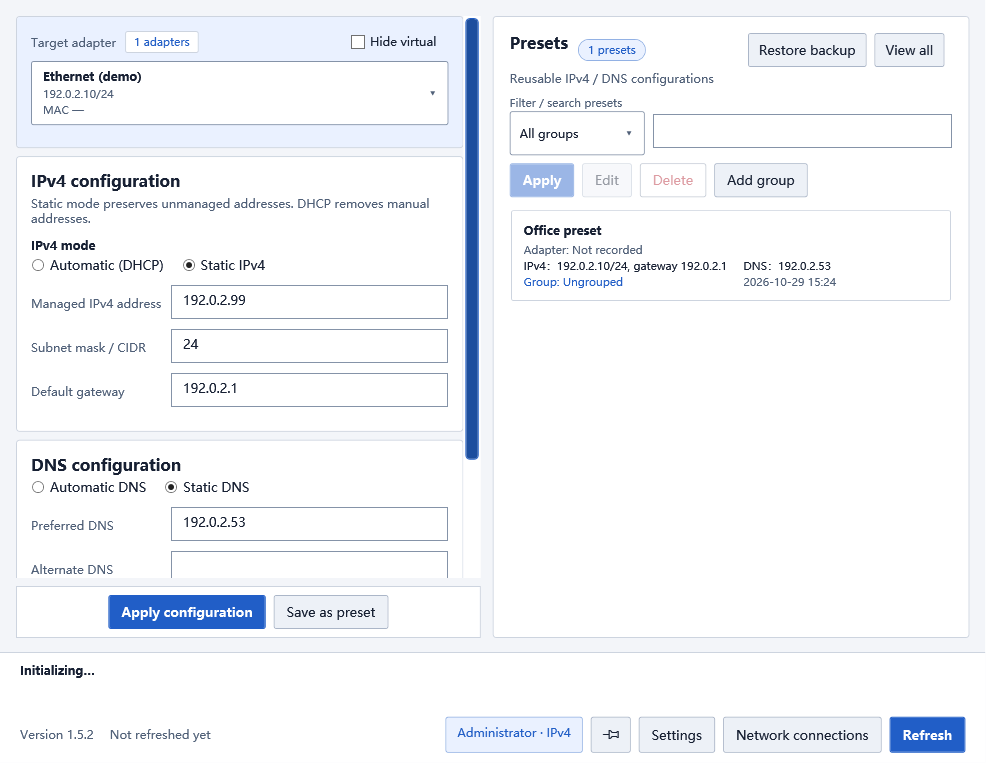
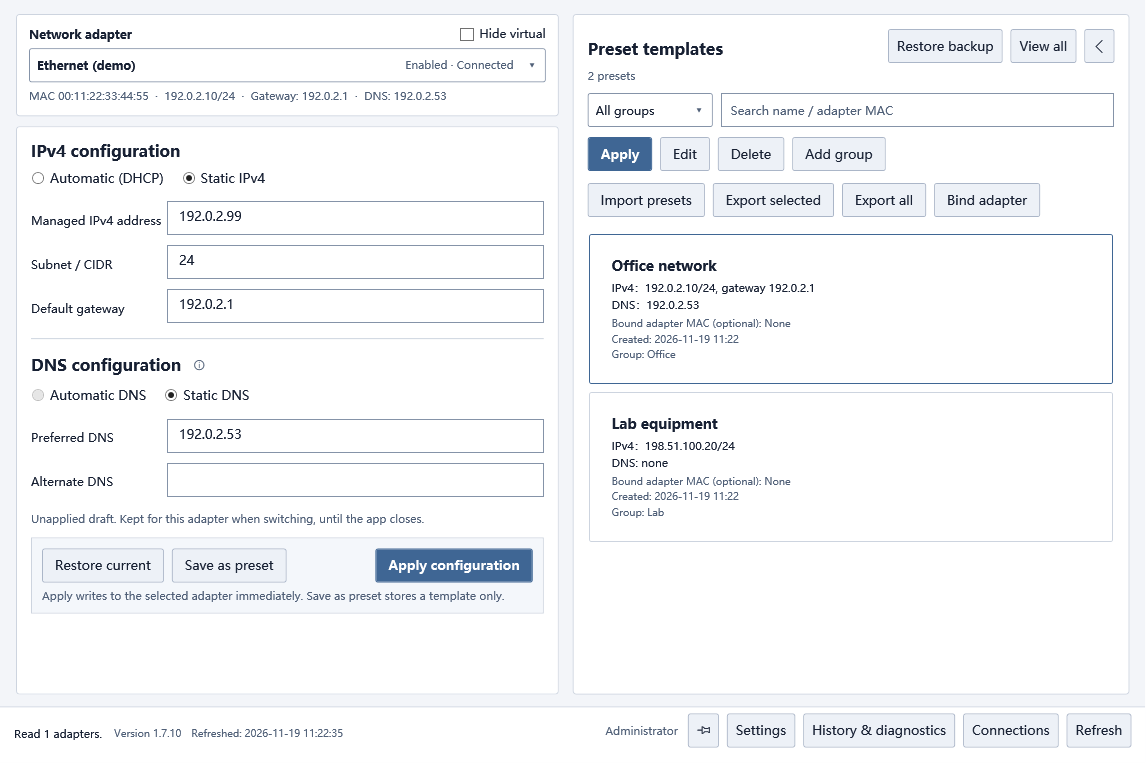
Refresh README layout and v1.7.10 screenshots

diff --git a/README.en.md b/README.en.md
@@ -1,99 +1,115 @@
-# NetAdapterManager
+<p align="center">
+  <img src="Assets/AppIcon.png" alt="NetAdapterManager icon" width="88" height="88">
+</p>
 
-[简体中文](README.md) | English
+<h1 align="center">NetAdapterManager</h1>
 
-An IPv4, DNS and network preset manager for Windows 10/11 x64, built with WPF and .NET 8.
-Current source version: **1.7.10**. Licensed under the [MIT license](LICENSE).
+<p align="center"><strong>Switch IPv4, DNS, and network presets on Windows.</strong></p>
 
-![Main window with synthetic demonstration data](docs/images/main-window-en.png)
+<p align="center">
+  <a href="https://github.com/FlavorFiesta/NetAdapterManager/releases/latest"><strong>Download latest release</strong></a>
+  · <a href="#quick-start">Quick start</a>
+  · <a href="CHANGELOG.md">Changelog</a>
+  · <a href="README.md">简体中文</a>
+</p>
 
-v1.7.10 improves Start menu icon refresh after an upgrade. See the [changelog (Chinese)](CHANGELOG.md). See the [1.5.3 fix notes](docs/RELEASE-1.5.3.md) for saved IPv4 and DNS verification fixes, and the [next-version plan (Chinese)](docs/PLAN-1.6.0.md).
+<p align="center">
+  <a href="https://github.com/FlavorFiesta/NetAdapterManager/actions/workflows/build.yml"><img src="https://github.com/FlavorFiesta/NetAdapterManager/actions/workflows/build.yml/badge.svg?branch=main" alt="Build status"></a>
+  · <strong>Windows 10 / 11 x64</strong> · <a href="LICENSE">MIT</a>
+</p>
+
+<picture>
+  <source media="(prefers-color-scheme: dark)" srcset="docs/images/main-window-en-dark.png">
+  <img src="docs/images/main-window-en.png" alt="Main window with the adapter and IPv4 and DNS settings on the left and the collapsible preset library on the right">
+</picture>
+
+<sub>Captured in v1.7.10 with a synthetic adapter and documentation example addresses.</sub>
+
+## Download
+
+Choose a Windows x64 package from [GitHub Releases](https://github.com/FlavorFiesta/NetAdapterManager/releases/latest). Both packages include the .NET runtime.
+
+| Package | How to use it |
+| --- | --- |
+| **Installer · EXE** | Run the setup wizard. Start menu and desktop shortcuts are selected by default. The default install location is `%LocalAppData%\Programs\NetAdapterManager`. |
+| **Portable · ZIP** | Extract the full archive, run `NetAdapterManager.exe`, and keep the extracted files together. |
+| **Checksums** | `SHA256SUMS.txt` contains the SHA-256 checksums for both packages. |
+
+## Quick start
+
+1. Launch the app and approve the Windows administrator prompt.
+2. Select an adapter and check its name, current IPv4 address, gateway, and DNS.
+3. Edit the settings and select **Apply configuration** to review and confirm the changes. Select **Save as preset** to use the configuration again later.
+
+> Changing an adapter in use may interrupt your connection. Check the target adapter and the preview before applying changes.
 
 ## Features
 
-- View physical, virtual and VPN adapters. Switch between DHCP and static IPv4, with independent automatic or static DNS.
-- Save, edit and apply adapter-specific presets. Organize them into groups, search, move or delete multiple presets.
-- Capture configuration before changes, verify the result and attempt rollback on failure.
-- Enable or disable adapters, keep the window on top and open Windows Network Connections.
-- Switch between Simplified Chinese, Traditional Chinese, English and the system language in Settings.
-- Choose light, dark or system theme, with support for Windows high-contrast colors.
-- Right-aligned toolbar controls, with version and refresh time on the left.
+| Feature | What you can do |
+| --- | --- |
+| **Adapters and addresses** | View physical, virtual, and VPN adapters. Switch DHCP or static IPv4 and set automatic or static DNS. Additional static addresses with DHCP are under Settings → Advanced. |
+| **Preset library** | Save, search, group, bind, import, and export presets. Collapse the library to work in a narrower window. |
+| **Preview and verification** | Compare current and target settings before applying. The app checks the result and attempts to roll back if a change fails. Review outcomes in History & diagnostics. |
+| **Desktop controls** | Use light, dark, or high-contrast themes in English, Simplified Chinese, or Traditional Chinese. Choose whether closing the window exits the app or minimizes it to the system tray. |
 
-Windows requests administrator approval at startup. After approval, the application runs as administrator; cancelling the prompt prevents startup. Changing the active adapter may interrupt connectivity, so check the target adapter before applying changes.
+<details>
+<summary><strong>More screenshots: compact window and configuration preview</strong></summary>
 
-## Download and use
+**Collapsed preset library**
 
-Download a Windows x64 package from [GitHub Releases](https://github.com/FlavorFiesta/NetAdapterManager/releases/latest):
+![Compact main window with the preset library collapsed](docs/images/compact-window-en.png)
 
-- `NetAdapterManager-v<version>-Setup-win-x64.exe`: installation wizard, defaulting to `%LocalAppData%\Programs\NetAdapterManager`.
-- `NetAdapterManager-v<version>-portable-win-x64.zip`: extract the entire archive and run `NetAdapterManager.exe`. Keep all extracted files together.
-- `SHA256SUMS.txt`: SHA-256 checksums for both packages.
+**Review before applying**
 
-Packages include the .NET runtime. The installer preselects a supported language based on the Windows display language, with English as the fallback; you can select another language before installation. The first application launch uses the installer language. Portable installations initially follow the system language. Existing language and theme settings survive upgrades.
+![Configuration preview comparing current and target settings](docs/images/configuration-preview-en.png)
 
-Language changes are temporarily disabled during network operations. Windows controls the appearance and language of native dialogs and raw system error messages.
-
-## What's new in 1.5.2
-
-This release includes all changes developed in the local 1.5.0 and 1.5.1 candidates: languages, themes, installer language selection, toolbar alignment and reliability improvements. It also fixes stale editor values after a successful preset application and makes composed status messages update when switching languages. See the [bilingual release notes](docs/RELEASE-1.5.2.md) and [full changelog in Chinese](CHANGELOG.md).
+</details>
 
 ## Data and privacy
 
-Application data lives beside the executable: `preset-library.json` (presets and groups), `managed-addresses.json` and `settings.json` (language and theme). Errors are logged to `logs/NetAdapterManager.log`. Upgrades preserve data; uninstalling may leave generated data files behind.
+Presets, settings, and logs are stored in the application directory and survive upgrades. Remove adapter names, MAC addresses, IP addresses, and DNS details before sharing diagnostics, logs, or screenshots.
 
-The unified preset library introduced in 1.4.12 imports legacy `presets.json` and `preset-groups.json` from the application directory, or from `%AppData%\NetAdapterManager` if local legacy files are absent. Successful saving creates the unified library and retains the originals. Once the unified library exists, legacy files are no longer imported. Downgrading to 1.4.11 does not expose subsequent unified-library changes; preserve the full application directory first.
+<details>
+<summary>Local files and migration</summary>
 
-Replacing an existing data file keeps its previous contents as `.bak`. Restore Backup restores presets and groups together, validates the backup first and preserves the replaced file as `.corrupt-*`. Corrupt or inaccessible preset data is reported and protected from overwriting. Damaged settings are preserved when a new preference is saved.
+- `preset-library.json` keeps presets and groups, `settings.json` stores preferences, and `managed-addresses.json` records addresses managed by the app. The log is at `logs/NetAdapterManager.log`.
+- Previous data files are kept as `.bak`. **Restore backup** in the preset library restores presets and groups together. The app blocks overwriting a corrupt preset library.
+- Before the unified library is first saved, the app can load legacy `presets.json` and `preset-groups.json` from the application directory or `%AppData%\NetAdapterManager`. Back up the entire application directory before downgrading or replacing files by hand.
 
-Only one instance runs per user. Closing during configuration, verification or recovery waits for the operation to finish; this cannot protect against forced termination or power loss. Adapter enable/disable operations stop waiting after 15 seconds, but Windows may still be working. Further writes are blocked; inspect the system state before restarting the app.
+</details>
 
-Preferences are stored per application directory. Running the same installation under another elevated account uses the same explicit preferences; system defaults refer to the account running the application. User-created names are never translated.
+## Build from source
 
-Presets, screenshots and logs may reveal adapter names, MAC addresses, IP addresses and DNS servers. Remove personal information before sharing them. Runtime data, build outputs and local test evidence are excluded from Git. The screenshot above uses synthetic adapters and documentation example addresses.
-
-## Build and test
-
-Requires Windows 10/11 x64 and the .NET 8 SDK. Building the application does not require Python or Inno Setup.
-
-```powershell
-dotnet restore .\NetAdapterManager.csproj
-dotnet build .\NetAdapterManager.csproj -c Release --no-restore
-dotnet run --project .\tests\NetAdapterManager.SelfTest -c Release
-powershell -NoProfile -ExecutionPolicy Bypass -File .\tests\Run-FullTest.ps1
-```
-
-The default tests read system network state and write isolated test files and logs. Command-generation checks capture commands for synthetic adapters; they do not change real network settings.
+Requires Windows 10/11 x64 and the .NET 8 SDK.
 
 ```powershell
-# Regression tests without real adapters, WMI or user data
-dotnet run --project .\tests\NetAdapterManager.SelfTest -c Release -- --isolated
-# Three languages combined with light/dark themes, using synthetic data
-dotnet run --project .\tests\NetAdapterManager.SelfTest -c Release -- --appearance-smoke
+dotnet build .\NetAdapterManager.csproj -c Release
 ```
 
-CI builds the project, runs isolated regressions and queries dependency vulnerabilities. Local full tests require adapters for read-only WMI checks. Real write tests require the explicit `-RunSafeWriteTest` option and administrator privileges; use only an eligible virtual adapter with a static IPv4 address and no default gateway. Never run write tests on the active connection.
+<details>
+<summary>Isolated tests and packaging</summary>
 
-DNS mode is read independently from IP DHCP state using the Windows DNS settings API, with a read-only registry fallback on older Windows 10 systems. Changes and rollback verify the full IPv4 address set, gateway and DNS. DNS-only edits do not rewrite static IP addresses. Command cancellation or timeout must confirm process termination before recovery begins.
+```powershell
+dotnet build .\tests\NetAdapterManager.SelfTest -c Release
+dotnet .\tests\NetAdapterManager.SelfTest\bin\Release\net8.0-windows\NetAdapterManager.SelfTest.dll --isolated
+dotnet .\tests\NetAdapterManager.SelfTest\bin\Release\net8.0-windows\NetAdapterManager.SelfTest.dll --appearance-smoke
+```
 
-## Package
+Isolated regressions and appearance checks use synthetic data. Real adapter write tests require an elevated PowerShell and the explicit `-RunSafeWriteTest` option in `tests/Run-FullTest.ps1`. Only a virtual adapter with a static IPv4 address and no default gateway is eligible.
 
-Additional requirements: Python 3, Pillow 11.1.0 and Inno Setup 6.5.0+ (6.x).
+Packaging also requires Python 3 and Inno Setup 6.5.0+ (6.x). Packages are written to `artifacts\<version>\`.
 
 ```powershell
 python -m pip install -r .\build\requirements.txt
 powershell -NoProfile -ExecutionPolicy Bypass -File .\build\Build-Packages.ps1
 ```
 
-Outputs are self-contained, untrimmed, multi-file `win-x64` packages in `artifacts\1.5.3\`. The script replaces only the named ZIP and installer, collects dependency licenses and rejects runtime user data in the publishing directory. `-OutputRootOverride` must point inside `artifacts`, without symlinks or junctions. Version numbers come from the main project. The `.iss` script is the production installer; the C# project under Installer is a legacy prototype.
+See the [installer notes](Installer/README.md) and the [update feed documentation](docs/UPDATE-FEED.md).
 
-Publish both packages and matching SHA-256 checksums. Do not package an application directory that has been used with personal data.
+</details>
 
-## Contributing
+## Feedback and contributions
 
-Issues and pull requests are welcome. Include your Windows version, reproduction steps and expected/actual behavior; redact logs and screenshots. Run the build and default self-tests before submitting code. Real adapter write tests are not required for ordinary contributions.
+[Issues](https://github.com/FlavorFiesta/NetAdapterManager/issues) and pull requests are welcome. Include your Windows version, reproduction steps, and expected and actual results. Redact any attachments before sharing.
 
-See [third-party notices](THIRD-PARTY-NOTICES.md) for bundled materials. Internal working notes and raw acceptance logs remain local.
-
-[v1.6.0 local candidate and acceptance limits](docs/RELEASE-1.6.0.md): configuration review, adapter drafts, preset import/export and explicit binding.
-
-[v1.6.1 local candidate and acceptance limits](docs/RELEASE-1.6.1.md): operation history, diagnostic preview/export and manual update checking.
+[MIT license](LICENSE) · [Third-party notices](THIRD-PARTY-NOTICES.md) · [Changelog](CHANGELOG.md)

diff --git a/README.md b/README.md
@@ -1,131 +1,115 @@
-# 网络适配器管理器
+<p align="center">
+  <img src="Assets/AppIcon.png" alt="NetAdapterManager 图标" width="88" height="88">
+</p>
 
-简体中文 | [English](README.en.md)
+<h1 align="center">网络适配器管理器</h1>
 
-Windows 10/11 x64 上的网卡 IPv4、DNS 与预设管理工具，基于 WPF / .NET 8。
-当前源码版本：**1.7.10**
+<p align="center"><strong>为 Windows 网卡切换 IPv4、DNS 和网络预设。</strong></p>
 
-![主界面（虚构演示数据）](docs/images/main-window.png)
+<p align="center">
+  <a href="https://github.com/FlavorFiesta/NetAdapterManager/releases/latest"><strong>下载最新版</strong></a>
+  · <a href="#快速上手">快速上手</a>
+  · <a href="CHANGELOG.md">更新记录</a>
+  · <a href="README.en.md">English</a>
+</p>
 
-v1.7.10 改进了升级时的开始菜单图标刷新。详见 [更新记录](CHANGELOG.md)。客户反馈的禁用网卡 IP 读取和 DNS 复核问题修复见 [v1.5.3 说明](docs/RELEASE-1.5.3.md)。后续功能见 [v1.6.0 更新计划](docs/PLAN-1.6.0.md)。
+<p align="center">
+  <a href="https://github.com/FlavorFiesta/NetAdapterManager/actions/workflows/build.yml"><img src="https://github.com/FlavorFiesta/NetAdapterManager/actions/workflows/build.yml/badge.svg?branch=main" alt="构建状态"></a>
+  · <strong>Windows 10 / 11 x64</strong> · <a href="LICENSE">MIT</a>
+</p>
 
-## 功能
+<picture>
+  <source media="(prefers-color-scheme: dark)" srcset="docs/images/main-window-dark.png">
+  <img src="docs/images/main-window.png" alt="主窗口：左侧为网卡和 IPv4、DNS 配置，右侧为可折叠的预设模板库">
+</picture>
 
-- 查看物理、虚拟与 VPN 网卡，切换 DHCP / 静态 IPv4、自动 / 静态 DNS。
-- 按所属网卡保存、编辑和应用预设，支持分组、搜索、批量换组及删除。
-- 写入前获取快照，写入后复核；失败时尝试回滚。
-- 启用 / 禁用网卡、窗口置顶、打开系统网络连接。
-- 设置中切换简体中文、繁体中文、英语或跟随系统，界面即时更新。
-- 浅色、深色与跟随系统主题；保存偏好，兼容系统高对比度。
+<sub>截图来自 v1.7.10，使用虚构网卡与文档示例地址。</sub>
 
-启动时会请求 Windows 管理员授权，确认后进入管理员模式；取消授权则不启动程序。
-更改当前联网网卡可能中断网络；请先确认目标网卡。
+## 下载
 
-## 下载与使用
+从 [GitHub Releases](https://github.com/FlavorFiesta/NetAdapterManager/releases/latest) 选择 Windows x64 包。两种包均自带 .NET 运行时。
 
-在 [GitHub Releases](https://github.com/FlavorFiesta/NetAdapterManager/releases/latest) 选择 Windows x64 包：
+| 下载选项 | 使用方式 |
+| --- | --- |
+| **安装版 · EXE** | 运行安装向导。开始菜单和桌面快捷方式默认勾选，默认安装到 `%LocalAppData%\Programs\NetAdapterManager`。 |
+| **便携版 · ZIP** | 完整解压后运行 `NetAdapterManager.exe`，保留同目录下的所有文件。 |
+| **校验清单** | `SHA256SUMS.txt` 包含安装包和便携包的 SHA-256。 |
 
-- `NetAdapterManager-v<版本>-portable-win-x64.zip`：完整解压后运行 `NetAdapterManager.exe`。
-- `NetAdapterManager-v<版本>-Setup-win-x64.exe`：安装向导，默认安装到 `%LocalAppData%\Programs\NetAdapterManager`。
+## 快速上手
 
-发布包自带 .NET 运行时，无需另装运行时。免安装版必须保留解压出的全部文件，不能只复制 EXE。
-本仓库不包含预生成二进制，公开下载以实际发布的 Release 为准。
+1. 启动程序并确认 Windows 管理员授权。
+2. 选择目标网卡，核对网卡名称及当前 IPv4、网关和 DNS。
+3. 按需修改设置，点 **应用配置** 查看变更预览并确认。想留着下次使用时，点 **保存为预设**。
 
-安装器默认选择 Windows 显示语言，用户可在语言选择框改选；不支持的语言回退英语。
-首次启动沿用安装选择，便携版首次启动跟随系统。已有语言与主题偏好在升级时保留。
-“设置”中可随时切换主题；网络操作期间暂不可切换语言。系统原生对话框外观和错误原文由 Windows 决定。
+> 切换当前正在联网的网卡可能中断连接。应用前请核对目标网卡和预览中的配置。
+
+## 主要功能
+
+| 功能 | 可以做什么 |
+| --- | --- |
+| **网卡与地址** | 查看物理、虚拟和 VPN 网卡，切换 DHCP 或静态 IPv4，设置自动或手动 DNS。DHCP 附加静态地址位于「设置 → 高级」。 |
+| **预设模板库** | 保存、搜索、分组、绑定和导入导出预设。收起模板库后，主窗口会随之缩窄。 |
+| **变更预览与复核** | 写入前对比当前配置和目标配置，写入后复核，失败时尝试回滚。可在「记录与诊断」中查看结果。 |
+| **桌面使用** | 支持浅色、深色和高对比度，提供简体中文、繁体中文和英文。可设置关闭窗口时退出或收进系统托盘。 |
+
+<details>
+<summary><strong>查看更多截图：紧凑模式和配置预览</strong></summary>
+
+**收起模板库**
+
+![收起预设模板库后的紧凑主窗口](docs/images/compact-window.png)
+
+**应用前预览**
+
+![应用前对照当前配置与目标配置](docs/images/configuration-preview.png)
+
+</details>
 
 ## 数据与隐私
 
-数据保存在程序目录：`preset-library.json`（预设与分组统一保存）、`managed-addresses.json`、`settings.json`（语言与主题）；
-错误日志位于 `logs/NetAdapterManager.log`。升级时保留数据，卸载后可能仍保留运行时生成的文件。
-首次使用 1.4.12 时，会读取程序目录中的旧 `presets.json` 和 `preset-groups.json`；没有本地旧文件时兼容读取 `%AppData%\NetAdapterManager` 中的数据。
-第一次成功保存时建立统一预设库，原文件保留。统一库建立后，不再从旧文件导入。
-每次替换已存在的数据文件会保留上一份 `.bak`；预设区域的“恢复备份”可同时恢复预设和分组，恢复前文件另存为 `.corrupt-*`。
-读取损坏或无法访问的数据时会显示错误并阻止覆盖。降级到 1.4.11 不会读取统一库中的后续修改，请先保留完整程序目录。
-同一用户只允许一个实例；配置应用、复核或恢复期间关闭窗口，会等待操作结束后再退出。
-启停网卡超过 15 秒或被取消时，界面停止等待，但 Windows 操作可能仍在进行；程序阻止继续写入，直到用户确认系统状态后重启。
-设置按程序目录保存，提权为不同账号运行同一份安装时仍使用同一份显式偏好；“跟随系统”读取当前运行账号的显示语言和应用颜色模式。
+预设、设置和日志保存在程序目录，升级时会保留这些数据。发布诊断信息、日志或截图前，请检查是否含有网卡名、MAC、IP 或 DNS 等信息。
 
-预设和截图可能包含网卡名称、MAC、IP、DNS 等信息。提交问题前请脱敏；
-这些运行数据、编译输出和本地测试证据已纳入 `.gitignore`。
-本页截图由自测使用虚构网卡与文档示例地址生成。
+<details>
+<summary>本地文件与旧版迁移</summary>
 
-## 构建
+- `preset-library.json` 保存预设和分组，`settings.json` 保存偏好，`managed-addresses.json` 记录程序管理的地址。日志位于 `logs/NetAdapterManager.log`。
+- 程序会保留上一份数据文件（`.bak`）。模板库里的「恢复备份」可恢复预设和分组。发现预设库损坏时，程序会阻止覆盖。
+- 统一预设库首次保存前可读取旧的 `presets.json` 和 `preset-groups.json`，也兼容从 `%AppData%\NetAdapterManager` 读取旧数据。降级或手动替换文件前，请备份整个程序目录。
 
-需要 Windows 10/11 x64 和 .NET 8 SDK。主程序构建不需要 Python 或 Inno Setup。
+</details>
+
+## 从源码构建
+
+需要 Windows 10/11 x64 和 .NET 8 SDK。
 
 ```powershell
-dotnet restore .\NetAdapterManager.csproj
-dotnet build .\NetAdapterManager.csproj -c Release --no-restore
+dotnet build .\NetAdapterManager.csproj -c Release
 ```
 
-默认自测只读取系统网络状态，并在测试输出目录写入测试文件和日志。
-命令生成验证使用虚构快照与捕获器，不执行 netsh，不应用真实网卡配置：
+<details>
+<summary>隔离测试和打包</summary>
 
 ```powershell
-dotnet run --project .\tests\NetAdapterManager.SelfTest -c Release
-powershell -NoProfile -ExecutionPolicy Bypass -File .\tests\Run-FullTest.ps1
+dotnet build .\tests\NetAdapterManager.SelfTest -c Release
+dotnet .\tests\NetAdapterManager.SelfTest\bin\Release\net8.0-windows\NetAdapterManager.SelfTest.dll --isolated
+dotnet .\tests\NetAdapterManager.SelfTest\bin\Release\net8.0-windows\NetAdapterManager.SelfTest.dll --appearance-smoke
 ```
 
-只运行无需网卡、WMI 或用户文件的网络回归（包含中途失败、回滚复核及 DNS 模式组合）：
+隔离回归和界面冒烟测试使用合成数据。真实网卡写入测试需要管理员 PowerShell，并在 `tests/Run-FullTest.ps1` 中明确启用 `-RunSafeWriteTest`。仅允许无默认网关、已有静态 IPv4 的虚拟网卡。
 
-```powershell
-dotnet run --project .\tests\NetAdapterManager.SelfTest -c Release -- --network-regression
-```
-
-运行全部无需真实网卡的校验、预设、存储、进程超时与取消回归（CI 默认执行）：
-
-```powershell
-dotnet run --project .\tests\NetAdapterManager.SelfTest -c Release -- --isolated
-```
-
-三语言与浅色/深色组合的界面、设置保存及对比度验收（合成数据）：
-
-```powershell
-dotnet run --project .\tests\NetAdapterManager.SelfTest -c Release -- --appearance-smoke
-```
-
-UI 自测使用演示数据；全功能脚本的 WMI 检查仍需要本机存在网卡，
-不适用于所有无硬件的 CI 环境。GitHub Actions 默认执行构建、完整隔离回归与依赖漏洞查询。
-
-DNS 自动/手动模式独立于 IP 的 DHCP 状态读取：优先使用 Windows DNS 设置 API，
-较早版本 Windows 10 使用只读的网卡注册表配置兼容路径。有效 DNS 地址列表仍由 Windows DNS 客户端读取。
-应用与恢复都复核完整 IPv4 地址集合、网关和 DNS，仅 DNS 改变时不会重写静态 IP。
-系统命令有超时和取消处理，终止并确认退出后才进入恢复；恢复仍须读回复核后才报告成功。
-正常关闭窗口保护不覆盖系统强杀或断电。
-
-真实写入 / 回滚测试必须显式指定 `-RunSafeWriteTest`，并使用管理员 PowerShell。
-它仅允许无默认网关、已有静态 IPv4 的安全虚拟网卡，排除 Wi-Fi 和物理网卡；
-不要在当前联网网卡上执行写入测试。
-
-## 打包
-
-额外需要 Python 3、Pillow 11.1.0 和 Inno Setup 6.5.0+（6.x）：
+打包额外需要 Python 3 和 Inno Setup 6.5.0+（6.x）。产物位于 `artifacts\<版本>\`。
 
 ```powershell
 python -m pip install -r .\build\requirements.txt
 powershell -NoProfile -ExecutionPolicy Bypass -File .\build\Build-Packages.ps1
 ```
 
-正式包为 `win-x64`、自包含、多文件、不裁剪。
-默认输出到 `artifacts\1.5.3\`，临时目录自动清理；最终生成 ZIP 和安装 EXE。
-重建只覆盖这两个指定产物，保留目录中的其他文件。
-`-OutputRootOverride` 只能指定项目 `artifacts` 下的子目录，不允许路径中包含符号链接或目录联接。
-版本从主项目读取并传给安装脚本。
+详见 [安装器说明](Installer/README.md) 和 [更新源说明](docs/UPDATE-FEED.md)。
 
-打包会按实际依赖版本收集许可与第三方声明，并检查发布目录没有预设或日志。
-请将完整 ZIP、安装包及对应 SHA-256 发布到 Release，不要打包运行过的程序目录。
-安装器目录中的 C# 工程是旧原型，正式构建使用 `.iss`，详见 [安装器说明](Installer/README.md)。
+</details>
 
-## 贡献与反馈
+## 反馈与贡献
 
-欢迎提交 Issue 和 Pull Request。请描述系统版本、操作步骤、预期与实际结果；
-附日志或截图前删除个人信息。提交代码前运行构建和默认自测，真实网卡写入测试不作为普通贡献的前提。
+欢迎提交 [Issue](https://github.com/FlavorFiesta/NetAdapterManager/issues) 或 Pull Request。反馈时请提供 Windows 版本、复现步骤、预期与实际结果，并先对附件脱敏。
 
-版本变化见 [CHANGELOG](CHANGELOG.md)，第三方材料见 [THIRD-PARTY-NOTICES](THIRD-PARTY-NOTICES.md)。
-内部项目记录与原始验收日志仅在本地保留，不作为公开源码提交。
-
-[v1.6.0 本地功能与验收边界](docs/RELEASE-1.6.0.md)：变更预览、网卡草稿、预设导入/导出与手动绑定。
-
-[v1.6.1 本地功能与验收边界](docs/RELEASE-1.6.1.md)：操作记录、诊断预览导出及手动检查更新。
+[MIT 许可证](LICENSE) · [第三方声明](THIRD-PARTY-NOTICES.md) · [完整更新记录](CHANGELOG.md)
